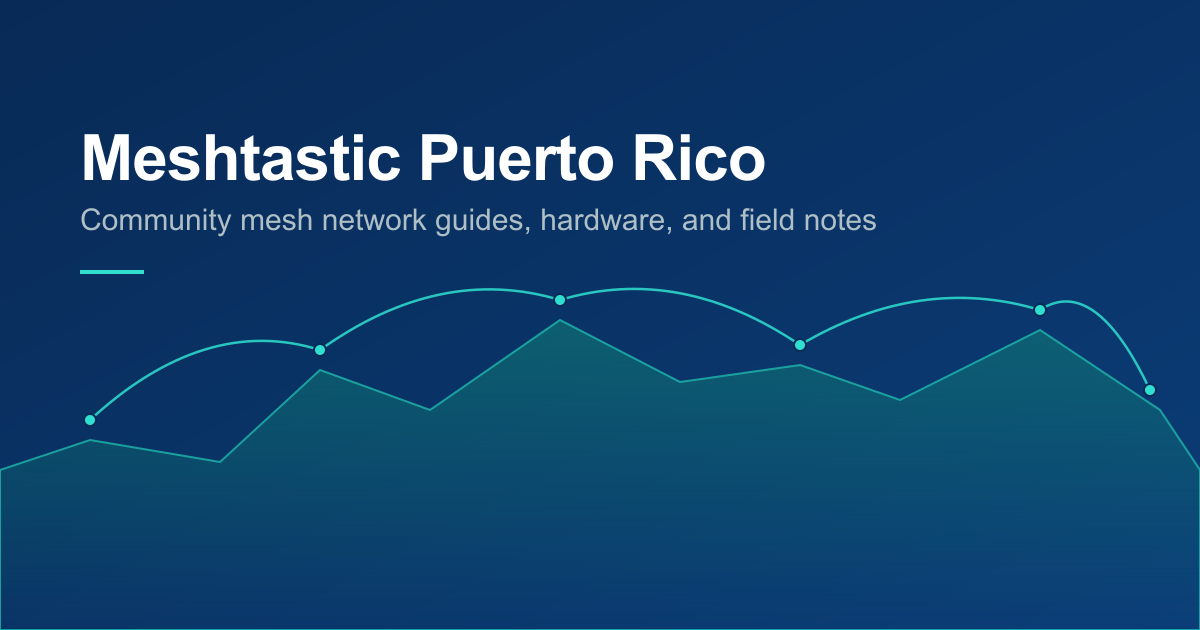
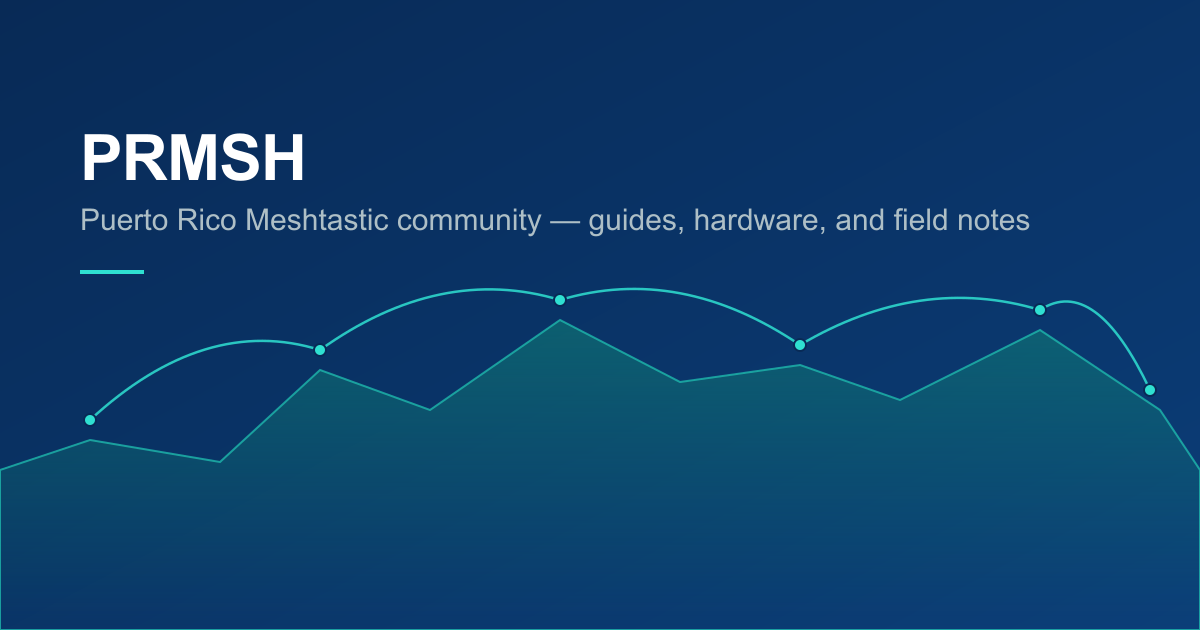
chore(brand): rename the site to PRMSH
Meshtastic's trademark guidelines don't allow "Meshtastic" plus a region
on its own (their example of a disallowed name is "Meshtastic UK"). The
site called itself "Meshtastic Puerto Rico" and "Meshtastic PR", so the
brand is now PRMSH, matching the prmsh.com domain.

"Meshtastic" stays only as a description of the technology, e.g. the
home title "PRMSH — Puerto Rico Meshtastic Community".

- Header and footer wordmark, page titles, and og:site_name
- UI strings, blog authors, and docs, in English and Spanish
- Regenerated og-default.png, plus llms.txt, README, and LICENSE files
- The Malla dashboard (malla.prmsh.com) is now "PRMSH Network Dashboard"
  and monitor.prmsh.com is "PRMSH MeshMonitor", so the two services no
  longer share a name

Changed region(s): [[0.0617, 0.2111, 0.6475, 0.3016], [0.0617, 0.3317, 0.8633, 0.3921]]

diff --git a/src/lib/ui-strings.ts b/src/lib/ui-strings.ts
@@ -50,9 +50,9 @@ const en = {
     nodesReporting: (online: number, total: number) =>
       `${online} of ${total} nodes reporting`,
     rebuilt: (date: string) => `site rebuilt ${date}`,
-    copyright: (year: number) => `© ${year} Meshtastic Puerto Rico Community.`,
+    copyright: (year: number) => `© ${year} PRMSH Community.`,
     disclaimer:
-      "Meshtastic PR is an independent community project, not affiliated with Meshtastic LLC. Configure and operate radio equipment according to applicable laws, regulations, and current Meshtastic firmware documentation.",
+      "PRMSH is an independent community project, not affiliated with Meshtastic LLC. Configure and operate radio equipment according to applicable laws, regulations, and current Meshtastic firmware documentation.",
     licenseBefore: "Site content licensed under ",
     licenseName: "CC BY-SA 4.0",
     licenseAfter: ".",
@@ -100,8 +100,8 @@ const en = {
   blogIndex: {
     title: "Blog",
     description:
-      "Tutorials, field reports, node builds, and Puerto Rico mesh updates from the Meshtastic PR community.",
-    eyebrow: "Meshtastic PR Blog",
+      "Tutorials, field reports, node builds, and Puerto Rico mesh updates from the PRMSH community.",
+    eyebrow: "PRMSH Blog",
     h1: "Field notes from the mesh",
     lede: "Tutorials, hardware reviews, node deployments, and coverage reports from operators building the network across Puerto Rico.",
     filterAria: "Filter by category",
@@ -122,13 +122,13 @@ const en = {
   },
 
   home: {
-    title: "Meshtastic Puerto Rico",
+    title: "PRMSH — Puerto Rico Meshtastic Community",
     description:
-      "Meshtastic Puerto Rico is a community resource for building, learning about, and expanding decentralized LoRa mesh communication throughout Puerto Rico.",
+      "PRMSH is the Puerto Rico Meshtastic community — a resource for building, learning about, and expanding decentralized LoRa mesh communication throughout Puerto Rico.",
     heroEyebrow: "Community LoRa network · Puerto Rico",
     heroTitle: "Stays connected when everything else goes down.",
     heroSub1:
-      "Meshtastic Puerto Rico is a community-built radio network that lets you send messages without cell service, Wi-Fi, or the internet. You pair a small, affordable radio with an app on your phone — that radio talks directly to nearby radios, relaying your message from one to the next until it reaches its destination.",
+      "PRMSH is a community-built Meshtastic radio network that lets you send messages without cell service, Wi-Fi, or the internet. You pair a small, affordable radio with an app on your phone — that radio talks directly to nearby radios, relaying your message from one to the next until it reaches its destination.",
     heroSub2:
       "Some devices even have their own screen and keyboard, so you don't need a phone at all. No towers, no company, no monthly bill.",
     heroSub3:
@@ -143,7 +143,7 @@ const en = {
     introBody2:
       "Puerto Rico has already lived through weeks without cell service after Hurricane María and Fiona. This mesh exists so the next outage doesn't mean total silence.",
     introLink: "See how it actually works →",
-    whyEyebrow: "Why Meshtastic PR",
+    whyEyebrow: "Why PRMSH",
     whyItems: [
       "Independent, community-run — no company, no subscription",
       "Built for Puerto Rico's terrain, climate, and hurricane risk",
@@ -214,7 +214,7 @@ const en = {
     splitStartCta: "Get Started",
 
     blogEyebrow: "From the blog",
-    blogTitle: "Latest from Meshtastic PR",
+    blogTitle: "Latest from PRMSH",
     blogReadAll: "Read all posts →",
 
     ctaTitle: "Every node makes the mesh stronger.",
@@ -231,7 +231,7 @@ const en = {
     crumb: "Community",
     eyebrow: "Community",
     h1: "Built by the people using it",
-    lede: "There's no company behind Meshtastic PR — just operators who put up nodes, share what they learn, and help each other extend coverage. Here's how to find them and get involved.",
+    lede: "There's no company behind PRMSH — just operators who put up nodes, share what they learn, and help each other extend coverage. Here's how to find them and get involved.",
     projectsHeading: "Community Projects",
     projectsBody:
       "Ongoing efforts include coverage mapping for underserved regions, coordinated rooftop deployments, and shared documentation for local settings. If you're starting a project — a neighborhood node cluster, a trailhead repeater — post it where other operators can find and support it.",
@@ -244,7 +244,7 @@ const en = {
     chatHeading: "Community Chat",
     chatBodyBefore:
       "Day-to-day conversation happens on the ",
-    chatBodyLink: "Meshtastic Puerto Rico Discord",
+    chatBodyLink: "PRMSH Community Discord",
     chatBodyAfter:
       " — ask questions, share node builds, and find operators near you before you put up a new node.",
     eventsHeading: "Events",
@@ -299,7 +299,7 @@ const en = {
     lastSeen: "last seen",
     sourceLabel: "Data source",
     sourceBefore: "Node positions come from the ",
-    sourceMonitor: "Meshtastic PR Network Monitor",
+    sourceMonitor: "PRMSH Network Dashboard",
     sourceMid: ", powered by ",
     sourceMalla: "Malla",
     sourceAfter:
@@ -424,7 +424,7 @@ const en = {
     dialogAria: "Search documentation",
     placeholder: "Search docs, hardware, blog…",
     queryAria: "Search query",
-    prompt: "Type to search Meshtastic PR documentation and blog posts.",
+    prompt: "Type to search PRMSH documentation and blog posts.",
     noResults: "No results. Try a different term.",
   },
 
@@ -481,9 +481,9 @@ const es: Strings = {
       `${online} de ${total} nodos reportando`,
     rebuilt: (date: string) => `sitio reconstruido ${date}`,
     copyright: (year: number) =>
-      `© ${year} Comunidad Meshtastic Puerto Rico.`,
+      `© ${year} Comunidad PRMSH.`,
     disclaimer:
-      "Meshtastic PR es un proyecto comunitario independiente, sin afiliación con Meshtastic LLC. Configura y opera equipos de radio de acuerdo con las leyes, reglamentos y la documentación vigente del firmware de Meshtastic.",
+      "PRMSH es un proyecto comunitario independiente, sin afiliación con Meshtastic LLC. Configura y opera equipos de radio de acuerdo con las leyes, reglamentos y la documentación vigente del firmware de Meshtastic.",
     licenseBefore: "Contenido del sitio bajo licencia ",
     licenseName: "CC BY-SA 4.0",
     licenseAfter: ".",
@@ -531,8 +531,8 @@ const es: Strings = {
   blogIndex: {
     title: "Blog",
     description:
-      "Tutoriales, reportes de campo, construcción de nodos y actualizaciones de la malla de Puerto Rico de la comunidad Meshtastic PR.",
-    eyebrow: "Blog de Meshtastic PR",
+      "Tutoriales, reportes de campo, construcción de nodos y actualizaciones de la malla de Puerto Rico de la comunidad PRMSH.",
+    eyebrow: "Blog de PRMSH",
     h1: "Notas de campo desde la malla",
     lede: "Tutoriales, reseñas de hardware, despliegues de nodos y reportes de cobertura de operadores que construyen la red por todo Puerto Rico.",
     filterAria: "Filtrar por categoría",
@@ -553,13 +553,13 @@ const es: Strings = {
   },
 
   home: {
-    title: "Meshtastic Puerto Rico",
+    title: "PRMSH — Comunidad Meshtastic de Puerto Rico",
     description:
-      "Meshtastic Puerto Rico es un recurso comunitario para construir, aprender sobre y ampliar la comunicación mesh LoRa descentralizada por todo Puerto Rico.",
+      "PRMSH es la comunidad Meshtastic de Puerto Rico — un recurso comunitario para construir, aprender sobre y ampliar la comunicación mesh LoRa descentralizada por todo Puerto Rico.",
     heroEyebrow: "Red LoRa comunitaria · Puerto Rico",
     heroTitle: "Sigue conectada cuando todo lo demás se cae.",
     heroSub1:
-      "Meshtastic Puerto Rico es una red de radio construida por la comunidad que te permite enviar mensajes sin servicio celular, Wi-Fi ni internet. Emparejas una radio pequeña y económica con una app en tu teléfono — esa radio se comunica directamente con radios cercanas, retransmitiendo tu mensaje de una a otra hasta que llega a su destino.",
+      "PRMSH es una red de radio Meshtastic construida por la comunidad que te permite enviar mensajes sin servicio celular, Wi-Fi ni internet. Emparejas una radio pequeña y económica con una app en tu teléfono — esa radio se comunica directamente con radios cercanas, retransmitiendo tu mensaje de una a otra hasta que llega a su destino.",
     heroSub2:
       "Algunos equipos hasta tienen su propia pantalla y teclado, así que no necesitas teléfono para nada. Sin torres, sin compañía, sin factura mensual.",
     heroSub3:
@@ -574,7 +574,7 @@ const es: Strings = {
     introBody2:
       "Puerto Rico ya ha vivido semanas sin servicio celular tras los huracanes María y Fiona. Esta malla existe para que el próximo apagón no signifique silencio total.",
     introLink: "Mira cómo funciona de verdad →",
-    whyEyebrow: "Por qué Meshtastic PR",
+    whyEyebrow: "Por qué PRMSH",
     whyItems: [
       "Independiente, gestionada por la comunidad — sin compañía, sin suscripción",
       "Construida para el terreno, el clima y el riesgo de huracanes de Puerto Rico",
@@ -645,7 +645,7 @@ const es: Strings = {
     splitStartCta: "Comenzar",
 
     blogEyebrow: "Del blog",
-    blogTitle: "Lo más reciente de Meshtastic PR",
+    blogTitle: "Lo más reciente de PRMSH",
     blogReadAll: "Lee todos los artículos →",
 
     ctaTitle: "Cada nodo hace la malla más fuerte.",
@@ -662,7 +662,7 @@ const es: Strings = {
     crumb: "Comunidad",
     eyebrow: "Comunidad",
     h1: "Construida por quienes la usan",
-    lede: "No hay ninguna compañía detrás de Meshtastic PR — solo operadores que instalan nodos, comparten lo que aprenden y se ayudan a ampliar la cobertura. Así puedes encontrarlos y participar.",
+    lede: "No hay ninguna compañía detrás de PRMSH — solo operadores que instalan nodos, comparten lo que aprenden y se ayudan a ampliar la cobertura. Así puedes encontrarlos y participar.",
     projectsHeading: "Proyectos Comunitarios",
     projectsBody:
       "Los esfuerzos en curso incluyen el mapeo de cobertura para regiones desatendidas, despliegues coordinados en techos y documentación compartida para configuraciones locales. Si vas a empezar un proyecto — un grupo de nodos de barrio, un repetidor en el inicio de una vereda — publicálo donde otros operadores puedan encontrarlo y apoyarlo.",
@@ -675,7 +675,7 @@ const es: Strings = {
     chatHeading: "Chat de la Comunidad",
     chatBodyBefore:
       "La conversación del día a día ocurre en el ",
-    chatBodyLink: "Discord de Meshtastic Puerto Rico",
+    chatBodyLink: "Discord de la comunidad PRMSH",
     chatBodyAfter:
       " — haz preguntas, comparte tus nodos y encuentra operadores cerca de ti antes de instalar un nodo nuevo.",
     eventsHeading: "Eventos",
@@ -732,7 +732,7 @@ const es: Strings = {
     lastSeen: "visto por última vez",
     sourceLabel: "Fuente de datos",
     sourceBefore: "Las posiciones de los nodos vienen del ",
-    sourceMonitor: "Meshtastic PR Network Monitor",
+    sourceMonitor: "PRMSH Network Dashboard",
     sourceMid: ", impulsado por ",
     sourceMalla: "Malla",
     sourceAfter:
@@ -857,7 +857,7 @@ const es: Strings = {
     dialogAria: "Buscar en la documentación",
     placeholder: "Busca en docs, hardware, blog…",
     queryAria: "Consulta de búsqueda",
-    prompt: "Escribe para buscar en la documentación y el blog de Meshtastic PR.",
+    prompt: "Escribe para buscar en la documentación y el blog de PRMSH.",
     noResults: "Sin resultados. Prueba con otro término.",
   },
 

diff --git a/src/lib/nodes.ts b/src/lib/nodes.ts
@@ -1,7 +1,7 @@
 // Node map data layer.
 //
-// getNodes() fetches live Puerto Rico node positions from the Meshtastic PR
-// Network Monitor (malla.prmsh.com), which runs Malla
+// getNodes() fetches live Puerto Rico node positions from the PRMSH Network
+// Dashboard (malla.prmsh.com), which runs Malla
 // (https://github.com/zenitraM/malla, MIT). This runs at build time inside
 // Astro's server-side render, not in the browser, so it isn't subject to
 // the API's lack of CORS headers. If the fetch fails (network hiccup during

diff --git a/src/styles/tokens.css b/src/styles/tokens.css
@@ -1,5 +1,5 @@
 /*
-  Meshtastic Puerto Rico — design tokens.
+  PRMSH — design tokens.
   Signature: topographic elevation profile + line-of-sight hop arcs
   (see src/components/TerrainSignature.astro).
 */

diff --git a/src/content/docs/es/hardware.md b/src/content/docs/es/hardware.md
@@ -167,9 +167,9 @@ La antena usualmente importa más que la radio a la que está conectada.
 - **La pérdida de cable** se acumula rápido a estas frecuencias. Usa coaxial LMR-240 o mejor, y mantén los tramos exteriores a 10 pies o menos donde sea práctico — cada pie extra de cable barato calladamente te devuelve ganancia que pagaste en la antena.
 - **Impermeabilización**: sella cada conector exterior con cinta selladora de coaxial de calidad, no solo cinta eléctrica — el aire salado y la lluvia encontrarán cualquier hueco en una temporada.
 
-Para números reales de ganancia y alcance en modelos de antena específicos, consulta los [Meshtastic Antenna Reports](https://github.com/meshtastic/antenna-reports) — un conjunto de datos colaborativo, enviado por la comunidad de operadores de todo el mundo. No está revisado por Meshtastic PR, pero es una segunda opinión útil más allá de las hojas de especificaciones del fabricante. Si haces tus propias pruebas de antena aquí en Puerto Rico, considera enviar un reporte ahí también.
+Para números reales de ganancia y alcance en modelos de antena específicos, consulta los [Meshtastic Antenna Reports](https://github.com/meshtastic/antenna-reports) — un conjunto de datos colaborativo, enviado por la comunidad de operadores de todo el mundo. No está revisado por PRMSH, pero es una segunda opinión útil más allá de las hojas de especificaciones del fabricante. Si haces tus propias pruebas de antena aquí en Puerto Rico, considera enviar un reporte ahí también.
 
-Para la otra mitad del cuadro — si la antena de verdad está sintonizada a 915 MHz — [RF Index](https://www.rfindex.com/mesh/antennas) publica mediciones de VSWR en banco y gráficas de barrido de SWR para modelos específicos, junto con especificaciones y enlaces de compra. Los reportes de campo te dicen cómo se comportó una antena en el aire; un barrido de SWR te dice cuánta potencia refleja de vuelta al radio en lugar de radiarla. Vale la pena leer ambos antes de comprar, y una antena barata que barre mal en 915 MHz es la razón más común de que un nodo rinda por debajo de su hoja de especificaciones. RF Index lo mantiene la comunidad de Austin Mesh y cubre hardware de MeshCore además de Meshtastic, así que verifica a cuál se refiere cada ficha. No está revisado por Meshtastic PR.
+Para la otra mitad del cuadro — si la antena de verdad está sintonizada a 915 MHz — [RF Index](https://www.rfindex.com/mesh/antennas) publica mediciones de VSWR en banco y gráficas de barrido de SWR para modelos específicos, junto con especificaciones y enlaces de compra. Los reportes de campo te dicen cómo se comportó una antena en el aire; un barrido de SWR te dice cuánta potencia refleja de vuelta al radio en lugar de radiarla. Vale la pena leer ambos antes de comprar, y una antena barata que barre mal en 915 MHz es la razón más común de que un nodo rinda por debajo de su hoja de especificaciones. RF Index lo mantiene la comunidad de Austin Mesh y cubre hardware de MeshCore además de Meshtastic, así que verifica a cuál se refiere cada ficha. No está revisado por PRMSH.
 
 ## Vendedores confiables
 
@@ -248,6 +248,6 @@ Los nombres de equipos de esa tabla describen **clases de hardware** comunes en 
 
 Las categorías de esta página son un punto de partida curado para Puerto Rico, no el campo entero.
 
-Para sensores externos, armados inusuales o placas menos comunes, la [lista de hardware y sensores de Awesome Meshtastic](https://github.com/SignalGap/awesome-meshtastic#hardware-and-sensors) mantenida por la comunidad es una recopilación más amplia y colaborativa. No está revisada por Meshtastic PR — trátala como un punto de partida, no una recomendación.
+Para sensores externos, armados inusuales o placas menos comunes, la [lista de hardware y sensores de Awesome Meshtastic](https://github.com/SignalGap/awesome-meshtastic#hardware-and-sensors) mantenida por la comunidad es una recopilación más amplia y colaborativa. No está revisada por PRMSH — trátala como un punto de partida, no una recomendación.
 
 Para verificar un modelo específico, [RF Index](https://www.rfindex.com/mesh/devices) compara equipos lado a lado con especificaciones actuales, precios y enlaces de compra. También lista equipos de MeshCore, así que confirma que una placa corra Meshtastic antes de ordenar.

diff --git a/src/content/docs/hardware.md b/src/content/docs/hardware.md
@@ -166,9 +166,9 @@ The antenna usually matters more than the radio it's attached to.
 - **Cable loss** adds up fast at these frequencies. Use LMR-240 or better coax, and keep outdoor runs to 10 feet or less where practical — every extra foot of cheap cable quietly gives back gain you paid for in the antenna.
 - **Weatherproofing**: seal every outdoor connector with quality coax seal tape, not just electrical tape — salt air and rain will find any gap within a season.
 
-For real-world gain and range numbers on specific antenna models, see the [Meshtastic Antenna Reports](https://github.com/meshtastic/antenna-reports) — a community-submitted, crowd-sourced dataset from operators worldwide. It isn't vetted by Meshtastic PR, but it's a useful second opinion beyond manufacturer spec sheets. If you run your own antenna tests here in Puerto Rico, consider submitting a report there too.
+For real-world gain and range numbers on specific antenna models, see the [Meshtastic Antenna Reports](https://github.com/meshtastic/antenna-reports) — a community-submitted, crowd-sourced dataset from operators worldwide. It isn't vetted by PRMSH, but it's a useful second opinion beyond manufacturer spec sheets. If you run your own antenna tests here in Puerto Rico, consider submitting a report there too.
 
-For the other half of the picture — whether an antenna is actually tuned to 915 MHz — [RF Index](https://www.rfindex.com/mesh/antennas) publishes bench VSWR measurements and SWR sweep charts for specific antenna models, alongside specs and buy links. Field reports tell you how an antenna performed on the air; an SWR sweep tells you how much power it reflects back into the radio instead of radiating. Both are worth reading before you buy, and a cheap antenna that sweeps badly at 915 MHz is the most common reason a node underperforms its spec sheet. RF Index is run by the Austin Mesh community and covers MeshCore hardware alongside Meshtastic, so check which stack a listing refers to. It isn't vetted by Meshtastic PR.
+For the other half of the picture — whether an antenna is actually tuned to 915 MHz — [RF Index](https://www.rfindex.com/mesh/antennas) publishes bench VSWR measurements and SWR sweep charts for specific antenna models, alongside specs and buy links. Field reports tell you how an antenna performed on the air; an SWR sweep tells you how much power it reflects back into the radio instead of radiating. Both are worth reading before you buy, and a cheap antenna that sweeps badly at 915 MHz is the most common reason a node underperforms its spec sheet. RF Index is run by the Austin Mesh community and covers MeshCore hardware alongside Meshtastic, so check which stack a listing refers to. It isn't vetted by PRMSH.
 
 ## Trusted retailers
 
@@ -247,6 +247,6 @@ Device names in that table describe **classes of hardware** common in the Meshta
 
 The categories on this page are a curated starting point for Puerto Rico, not the whole field.
 
-For external sensors, unusual builds, or less common boards, the community-maintained [Awesome Meshtastic hardware & sensors list](https://github.com/SignalGap/awesome-meshtastic#hardware-and-sensors) is a broader, crowd-sourced roundup. It isn't vetted by Meshtastic PR — treat it as a jumping-off point, not a recommendation.
+For external sensors, unusual builds, or less common boards, the community-maintained [Awesome Meshtastic hardware & sensors list](https://github.com/SignalGap/awesome-meshtastic#hardware-and-sensors) is a broader, crowd-sourced roundup. It isn't vetted by PRMSH — treat it as a jumping-off point, not a recommendation.
 
 To check a specific model, [RF Index](https://www.rfindex.com/mesh/devices) compares devices side by side with current specs, pricing, and buy links. It also lists MeshCore devices, so confirm a board runs Meshtastic before ordering.

diff --git a/README.md b/README.md
@@ -1,4 +1,4 @@
-# Meshtastic Puerto Rico
+# PRMSH — Puerto Rico Meshtastic Community
 
 Community site for the Puerto Rico [Meshtastic](https://meshtastic.org) mesh — documentation, hardware and settings guidance, a blog, and a live node map for the island's network. Lives at [prmsh.com](https://prmsh.com).
 
@@ -68,7 +68,7 @@ Not a coder? You can still help: run a node, document your setup, or point out s
 
 ## License
 
-Dual-licensed, © Meshtastic Puerto Rico Community and contributors:
+Dual-licensed, © PRMSH Community and contributors:
 
 - **Code** — the `.astro` / `.ts` / `.css` files and site machinery — under the [MIT License](./LICENSE).
 - **Content** — everything under `src/content/` (docs and blog posts, all languages) — under [CC BY-SA 4.0](./LICENSE-CONTENT): reuse and adapt freely with attribution, share derivatives under the same license.

diff --git a/src/content/docs/es/pr-mesh.md b/src/content/docs/es/pr-mesh.md
@@ -39,7 +39,7 @@ La información de cobertura aquí refleja lo que ha compartido la comunidad. Co
 
 <div class="map-placeholder">
   <p><strong>Mapa de cobertura en vivo</strong></p>
-  <p>La página dedicada del <a href="/es/map/">Mapa de Nodos</a> muestra las posiciones actuales de los nodos, obtenidas del Meshtastic PR Network Monitor en cada compilación del sitio.</p>
+  <p>La página dedicada del <a href="/es/map/">Mapa de Nodos</a> muestra las posiciones actuales de los nodos, obtenidas del PRMSH Network Dashboard en cada compilación del sitio.</p>
   <a href="/es/map/" class="btn btn-secondary">Abrir el Mapa de Nodos →</a>
 </div>
 

diff --git a/src/content/docs/pr-mesh.md b/src/content/docs/pr-mesh.md
@@ -38,7 +38,7 @@ Coverage information here reflects what's been shared by the community. See the 
 
 <div class="map-placeholder">
   <p><strong>Live coverage map</strong></p>
-  <p>The dedicated <a href="/map/">Node Map</a> page shows current node positions, pulled from the Meshtastic PR Network Monitor at each site build.</p>
+  <p>The dedicated <a href="/map/">Node Map</a> page shows current node positions, pulled from the PRMSH Network Dashboard at each site build.</p>
   <a href="/map/" class="btn btn-secondary">Open the Node Map →</a>
 </div>
 

diff --git a/src/content/blog/puente-mqtt-mapa-pr-es.md b/src/content/blog/puente-mqtt-mapa-pr-es.md
@@ -3,7 +3,7 @@ translationKey: mqtt-bridge-pr-map
 title: "Cómo poner tu nodo en el mapa de la malla de Puerto Rico"
 description: Qué tiene que ser cierto para que tu nodo aparezca en el mapa de cobertura de PR — el root topic MQTT msh/US/PR, OK to MQTT, solo-uplink, y los ajustes de posición que deciden si apareces.
 pubDate: 2026-08-30
-author: Meshtastic PR
+author: PRMSH
 category: Tutorials
 tags: [mqtt, mapa, msh-us-pr, monitor, operator]
 readingTime: 8 min

diff --git a/src/content/blog/mqtt-bridge-pr-map-en.md b/src/content/blog/mqtt-bridge-pr-map-en.md
@@ -3,7 +3,7 @@ translationKey: mqtt-bridge-pr-map
 title: "Getting Your Node Onto the Puerto Rico Mesh Map"
 description: What actually has to be true for your node to show up on the PR coverage map — the MQTT root topic msh/US/PR, OK to MQTT, uplink-only, and the position settings that decide whether you appear at all.
 pubDate: 2026-08-30
-author: Meshtastic PR
+author: PRMSH
 category: Tutorials
 tags: [mqtt, map, msh-us-pr, monitor, operator]
 readingTime: 8 min

diff --git a/src/content/blog/lista-preparacion-huracanes-es.md b/src/content/blog/lista-preparacion-huracanes-es.md
@@ -2,7 +2,7 @@
 title: "Lista de preparación para la temporada de huracanes para tu red mesh"
 description: Pasos prácticos para preparar tu nodo y tu hogar antes de que la próxima tormenta deje fuera de servicio la red celular.
 pubDate: 2026-05-28
-author: Meshtastic PR
+author: PRMSH
 category: Community
 tags: [preparacion-emergencias, temporada-huracanes, comunidad, beginner]
 readingTime: 6 min

diff --git a/src/content/blog/hurricane-season-checklist.md b/src/content/blog/hurricane-season-checklist.md
@@ -3,7 +3,7 @@ translationKey: hurricane-season-checklist
 title: A hurricane-season checklist for your mesh setup
 description: Practical steps to get your node — and your household — ready before the next storm knocks out cell service.
 pubDate: 2026-05-28
-author: Meshtastic PR
+author: PRMSH
 category: Community
 tags: [emergency-prep, hurricane-season, community, beginner]
 readingTime: 6 min
